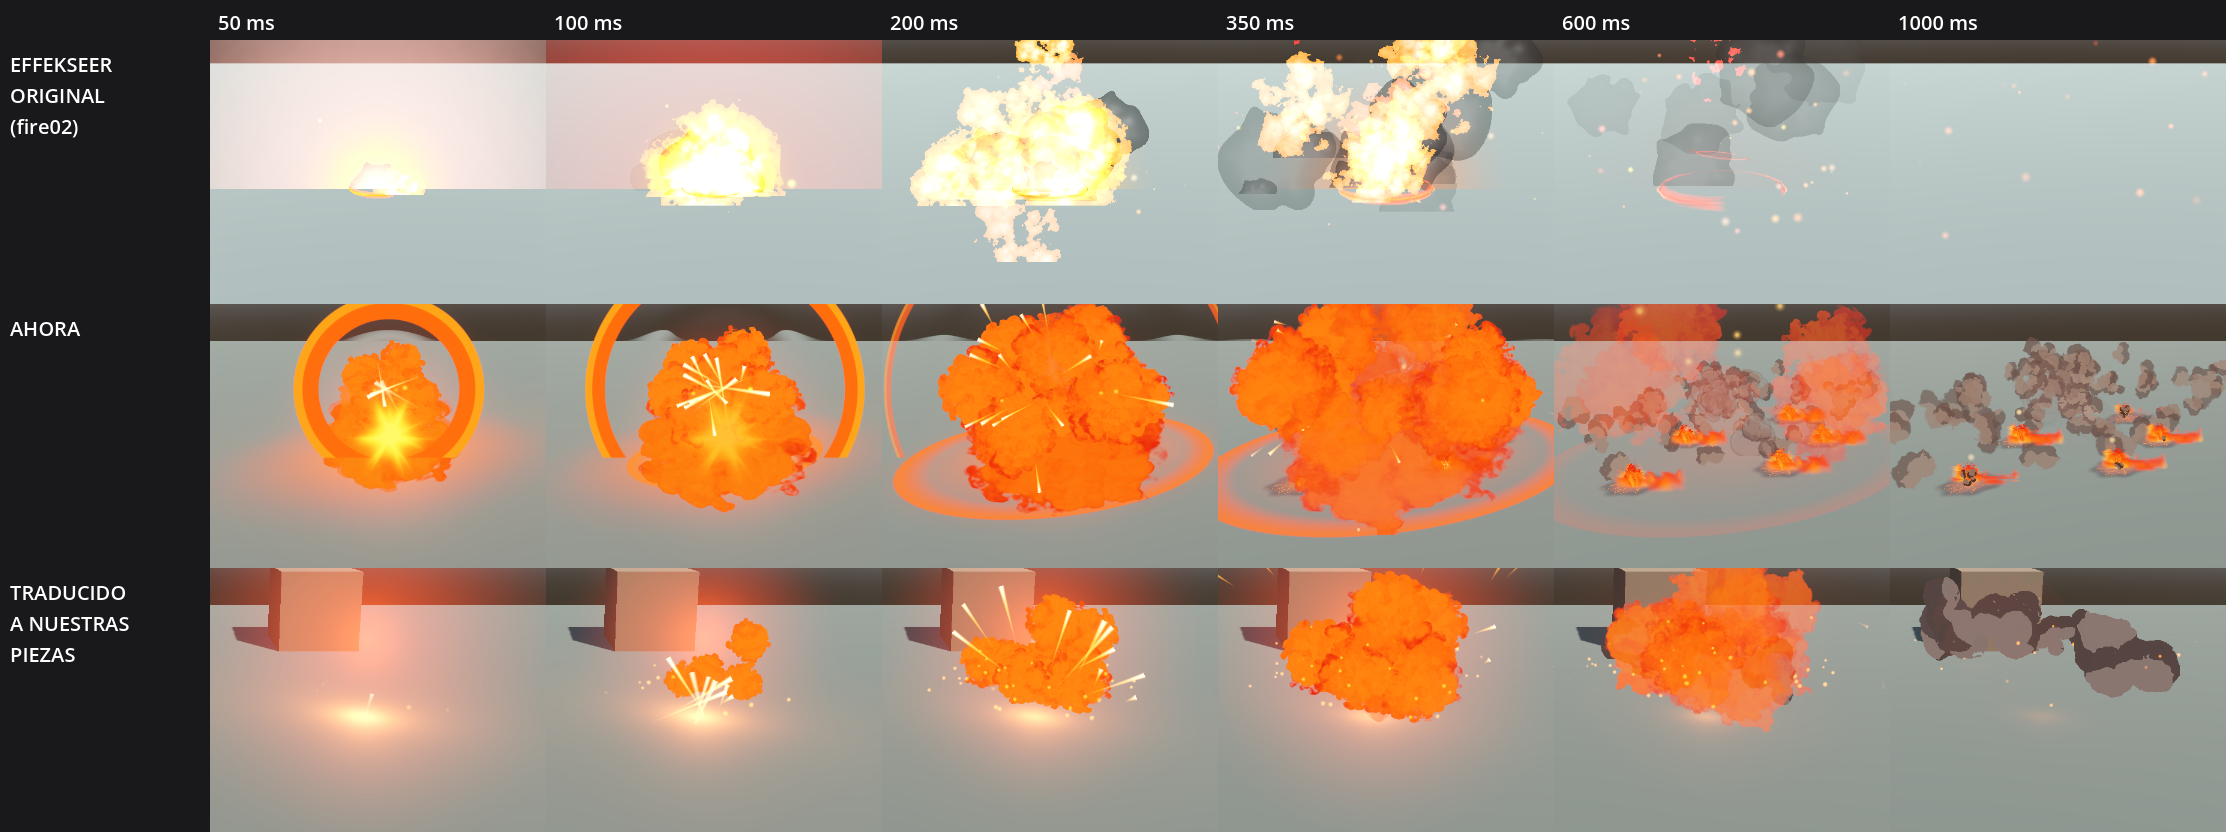
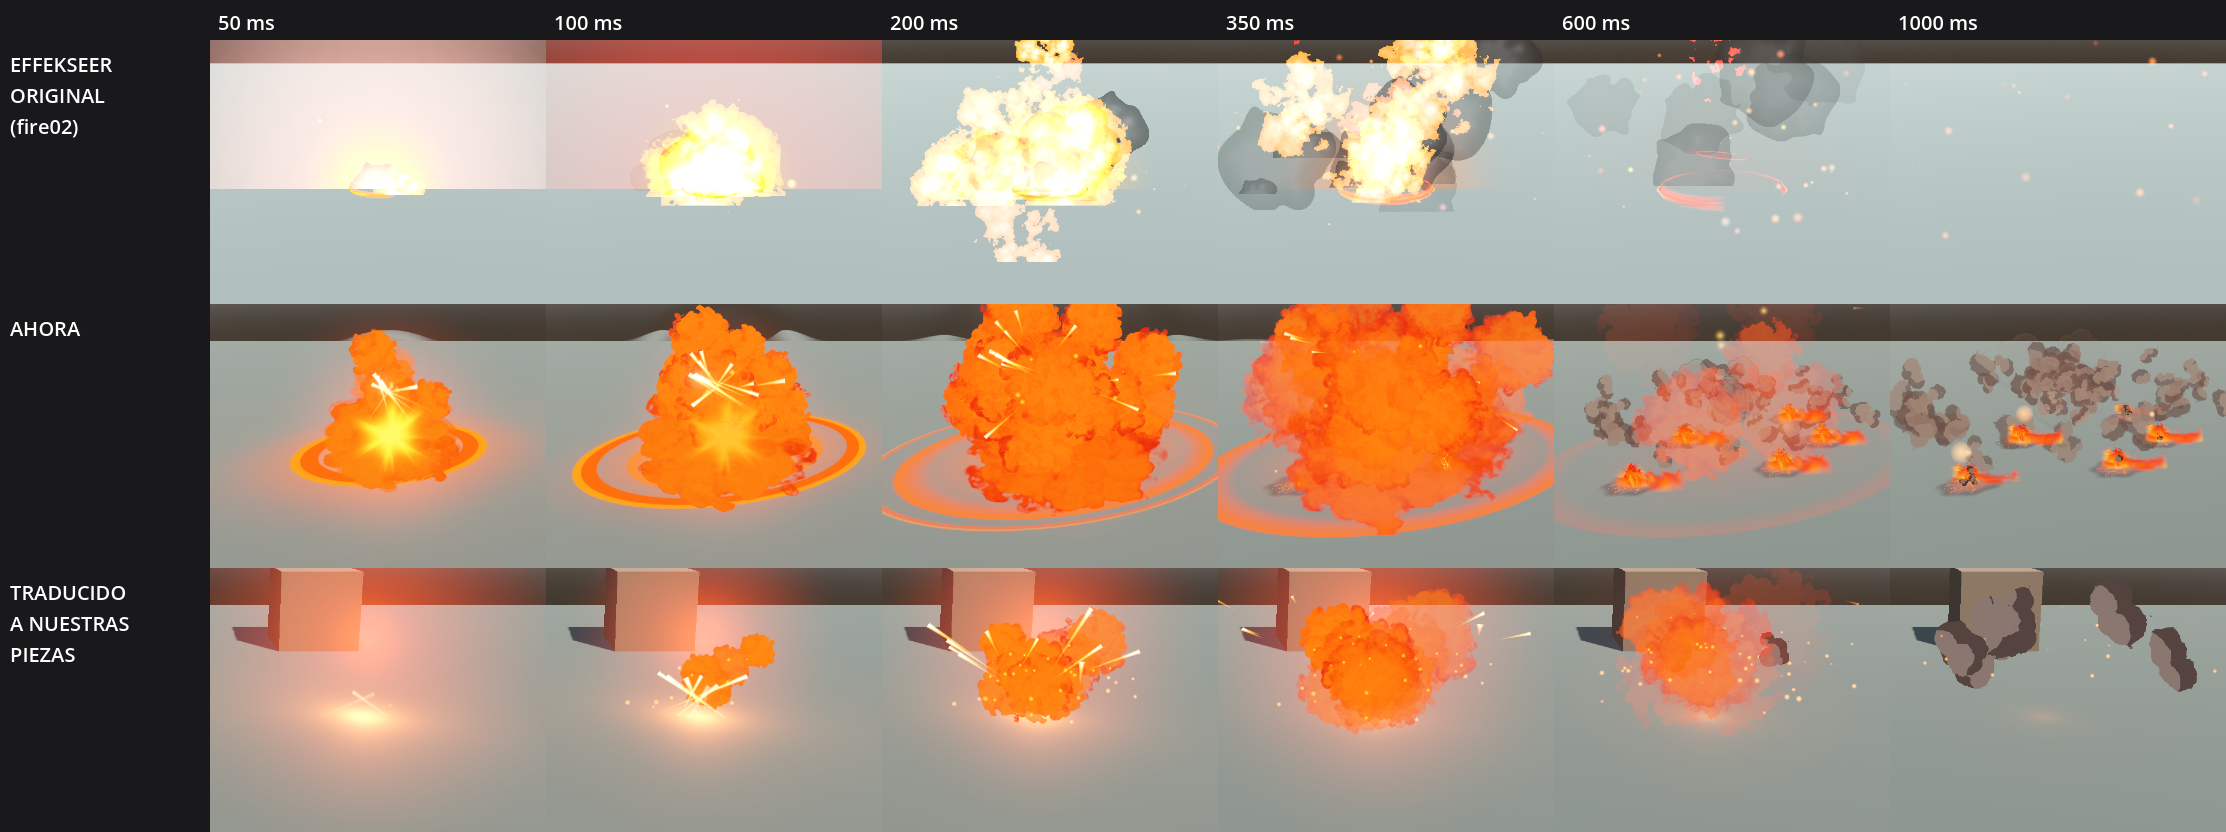
Barril: la onda de choque nítida va tumbada en el suelo
De pie, el suelo la cortaba y quedaba una cúpula (decisión de Pablo).
Ahora se adelanta a la onda blanda del decal y el fuego queda encima.

diff --git a/docs/IMPACTOS_EFFEKSEER_2026-11-25.md b/docs/IMPACTOS_EFFEKSEER_2026-11-25.md
@@ -56,7 +56,7 @@ Dónde se usan:
 | Impacto | Qué lleva |
 |---|---|
 | Golpe de fuego (estilo C) | El aro de choque de hit01 y su distorsión, además del halo y la estrella. |
-| Explosión del barril | Una onda de choque en el aire desde el foco: un aro que se abre hasta el radio en 0,28 s, más el aire que se deforma detrás. |
+| Explosión del barril | Un aro de choque TUMBADO en el suelo (Pablo: «tumbarla en el suelo»; de pie, el suelo lo cortaba en cúpula), que llega al radio en 0,28 s, por delante de la onda blanda (0,38 s), y el aire que se deforma desde el foco. |
 | ToonHit (receta del lab) | HitBase, HitSub y Ring ya son arcos y aros nítidos tumbados en la pared: ahora sí se parece al original. |
 
 Hojas: `docs/capturas/impactos_effekseer/aro_distorsion/`. Ojo: la distorsión solo se nota sobre fondo con dibujo. En el suelo liso del lab casi no se ve; en el borde de la pared, sí.
